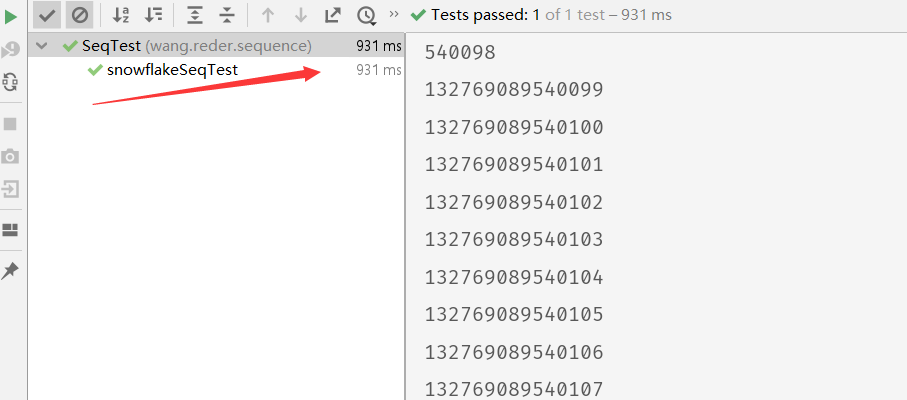
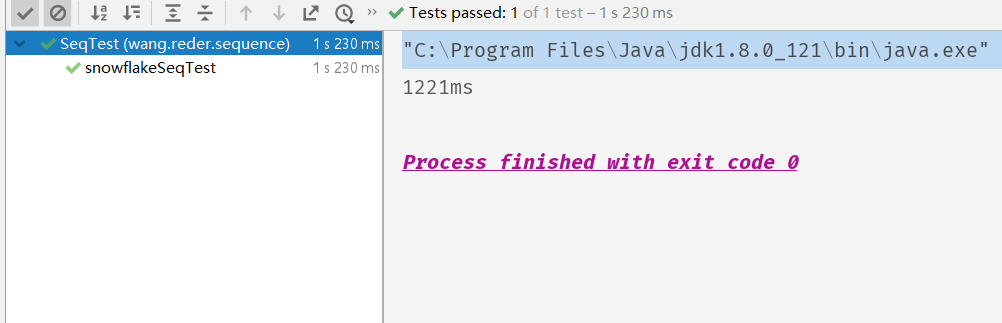
优化代码结构,修改测试图例

diff --git a/src/test/java/wang/reder/lock/LockTest.java b/src/test/java/wang/reder/lock/LockTest.java
@@ -2,7 +2,7 @@ package wang.reder.lock;
 
 import org.junit.Test;
 import wang.reder.distributor.Distributor;
-import wang.reder.distributor.lock.IDtorLock;
+import wang.reder.distributor.lock.ILock;
 import java.util.concurrent.CountDownLatch;
 
 /**
@@ -15,22 +15,51 @@ public class LockTest {
     @Test
     public void redisLockTest() throws Exception {
         // 获得实例
-        Distributor start = Distributor.getInstance();
+        Distributor distributor = Distributor.getInstance();
         // 连接配置
-        start.initJedisConfig("xxx", 6379, "");
+        distributor.initJedisConfig("xxx", 6379, "");
 
         CountDownLatch downLatch = new CountDownLatch(20);
         // 获得锁
-        IDtorLock lock = Distributor.newRedisLock("myLock");
-
-        IDtorLock lock1 = Distributor.newRedisReentrantLock("mylock");
+        ILock lock = Distributor.newRedisLock("myLock");
 
         for (int i = 0; i < 20; i++) {
             new Thread(() -> {
                 for (int j = 0; j < 10; j++) {
                     // 尝试加锁
                     String lockId = lock.lock();
-                    if (null != lockId) {
+                    if (lockId != null) {
+                        // System.out.println("lockId:" + lockId);
+                        lock.unLock(lockId);
+                    }
+                }
+                downLatch.countDown();
+
+            }).start();
+        }
+        downLatch.await();
+
+        distributor.destory();
+    }
+
+
+    @Test
+    public void redisReentrantLockTest() throws Exception {
+        // 获得实例
+        Distributor distributor = Distributor.getInstance();
+        // 连接配置
+        distributor.initJedisConfig("xxx", 6379, "");
+
+        CountDownLatch downLatch = new CountDownLatch(20);
+        // 获得锁
+        ILock lock = Distributor.newRedisReentrantLock("myLock");
+
+        for (int i = 0; i < 20; i++) {
+            new Thread(() -> {
+                for (int j = 0; j < 10; j++) {
+                    // 尝试加锁
+                    String lockId = lock.lock();
+                    if (lockId != null) {
                         System.out.println("lockId:" + lockId);
                         lock.unLock(lockId);
                     }
@@ -41,38 +70,7 @@ public class LockTest {
         }
         downLatch.await();
 
-        start.destory();
-    }
-
-
-    @Test
-    public void redisReentrantLockTest() throws Exception {
-        // 获得实例
-        Distributor start = Distributor.getInstance();
-        // 连接配置
-        start.initJedisConfig("192.168.75.132", 6379, "");
-
-        CountDownLatch downLatch = new CountDownLatch(20);
-        // 获得锁
-        IDtorLock lock = Distributor.newRedisReentrantLock("myLock");
-
-        for (int i = 0; i < 20; i++) {
-            new Thread(() -> {
-                for (int j = 0; j < 10; j++) {
-                    // 尝试加锁
-                    String kId = lock.lock();
-                    if (null != kId) {
-                        System.out.println("lockId:" + kId);
-                        lock.unLock(kId);
-                    }
-                }
-                downLatch.countDown();
-
-            }).start();
-        }
-        downLatch.await();
-
-        start.destory();
+        distributor.destory();
     }
 
 }

diff --git a/src/main/java/wang/reder/distributor/Distributor.java b/src/main/java/wang/reder/distributor/Distributor.java
@@ -7,12 +7,13 @@ import wang.reder.distributor.cache.Impl.RedisClient;
 import wang.reder.distributor.interfaces.IJedisOperator;
 import wang.reder.distributor.limit.ILimit;
 import wang.reder.distributor.limit.impl.RedisLimit;
-import wang.reder.distributor.lock.IDtorLock;
+import wang.reder.distributor.lock.ILock;
 import wang.reder.distributor.lock.redis.RedisLock;
 import wang.reder.distributor.lock.redis.RedisReentrantLock;
 import wang.reder.distributor.sequence.ISequence;
 import wang.reder.distributor.sequence.impl.RedisSequence;
 import wang.reder.distributor.sequence.impl.SnowflakeSequence;
+import wang.reder.distributor.utils.redis.JedisOperatorInit;
 
 /**
  * <p>门面模式，调度系统功能<p/>
@@ -29,8 +30,8 @@ public class Distributor {
     // jedis操作类，用于Jedis操作
     private IJedisOperator jedisOperator;
 
-    // Jedis初始化类
-    private JedisInit jedisInit = new JedisInit();
+    // JedisOperator初始化类
+    private JedisOperatorInit jedisInit = new JedisOperatorInit();
 
     // 返回单例
     public static Distributor getInstance() {
@@ -92,22 +93,22 @@ public class Distributor {
     // ----> RedisLock
 
     // 获取分布式锁，传入锁名，默认锁过期时间10s
-    public static IDtorLock newRedisLock(String lockName) {
+    public static ILock newRedisLock(String lockName) {
         return new RedisLock(lockName);
     }
 
     // 获取分布式锁，传入锁名，锁的过期时间
-    public static IDtorLock newRedisLock(String lockName, int lockTimeout) {
+    public static ILock newRedisLock(String lockName, int lockTimeout) {
         return new RedisLock(lockName, lockTimeout);
     }
 
     // 获取分布式锁，传入锁名，默认锁过期时间10s
-    public static IDtorLock newRedisReentrantLock(String lockName) {
+    public static ILock newRedisReentrantLock(String lockName) {
         return new RedisReentrantLock(lockName);
     }
 
     // 获取分布式锁，传入锁名，锁的过期时间
-    public static IDtorLock newRedisReentrantLock(String lockName, int lockTimeout) {
+    public static ILock newRedisReentrantLock(String lockName, int lockTimeout) {
         return new RedisReentrantLock(lockName, lockTimeout);
     }
 

diff --git a/src/main/java/wang/reder/distributor/lock/redis/RedisLock.java b/src/main/java/wang/reder/distributor/lock/redis/RedisLock.java
@@ -1,7 +1,7 @@
 package wang.reder.distributor.lock.redis;
 
 import redis.clients.jedis.Jedis;
-import wang.reder.distributor.lock.IDtorLock;
+import wang.reder.distributor.lock.ILock;
 import wang.reder.distributor.utils.IdUtils;
 import wang.reder.distributor.utils.redis.AbstractJedis;
 
@@ -16,7 +16,7 @@ import java.util.concurrent.locks.LockSupport;
  * email: 1318944013@qq.com
  * date: 2019/5/1 11:03
  */
-public class RedisLock extends AbstractJedis implements IDtorLock {
+public class RedisLock extends AbstractJedis implements ILock {
 
     // Redis命令常用字符串
     private static final String LOCK_SUCCESS = "OK";
@@ -96,8 +96,8 @@ public class RedisLock extends AbstractJedis implements IDtorLock {
             // 加锁成功返回value值，用于解锁
             return LOCK_SUCCESS.equals(result) ? lockId : null;
         } finally {
-             //关闭连接
-             jedis.close();
+            //关闭连接
+            jedis.close();
         }
     }
 
@@ -116,7 +116,9 @@ public class RedisLock extends AbstractJedis implements IDtorLock {
                     Collections.singletonList(getKey()), Collections.singletonList(lockId));
         } finally {
             // 关闭资源
-            jedis.close();
+            if (jedis != null) {
+                jedis.close();
+            }
         }
     }
 

diff --git a/src/test/java/wang/reder/sequence/SeqTest.java b/src/test/java/wang/reder/sequence/SeqTest.java
@@ -17,10 +17,9 @@ public class SeqTest {
     public void snowflakeSeqTest() {
         // 获得雪花序列生成器
         ISequence sequence = Distributor.newSnowflakeSeq(21, 21);
-        System.out.println(System.currentTimeMillis());
         long startTime = System.nanoTime();
-        // 生成五万个ID
-        for (int i = 0; i < 1000000; i++) {
+        // 生成五十万个ID
+        for (int i = 0; i < 500000; i++) {
             long id = sequence.nextId();
             // System.out.println(id);
         }
@@ -31,13 +30,12 @@ public class SeqTest {
     public void redisSeqTest() throws InterruptedException {
         Distributor distributor = Distributor.getInstance();
         // 连接配置
-        distributor.initJedisConfig("xxx", 6379, "");
+        distributor.initJedisConfig("192.168.75.133", 6379, "");
 
-        ISequence sequence = Distributor.newRedisSeq("seq", 50000, 1);
+        ISequence sequence = Distributor.newRedisSeq("seq", 5000, 1);
 
-        System.out.println(System.currentTimeMillis());
         long startTime = System.nanoTime();
-        for (int i = 0; i < 5000000; i++) {
+        for (int i = 0; i < 500000; i++) {
             long id = sequence.nextId();
             // System.out.println(id);
         }

diff --git a/src/main/java/wang/reder/distributor/sequence/impl/RedisSequence.java b/src/main/java/wang/reder/distributor/sequence/impl/RedisSequence.java
@@ -39,10 +39,10 @@ public class RedisSequence extends AbstractJedis implements ISequence {
     // 构造函数
     public RedisSequence(String key, int step, long stepStart) {
         // 如果输入负数，则使用默认设置
-        if(step <= 0) {
+        if (step <= 0) {
             step = DEFAULT_UNIT_STEP;
         }
-        if(stepStart < 0) {
+        if (stepStart < 0) {
             stepStart = DEFAULT_UNIT_START;
         }
         // 设置Key
@@ -79,7 +79,7 @@ public class RedisSequence extends AbstractJedis implements ISequence {
             lock.lock();
             try {
                 // 循环获取，直到成功
-                while (true){
+                while (true) {
                     // 重新分配单元
                     if (sequenceUnit.isEnd()) {
                         sequenceUnit = nextUnit(getKey());
@@ -121,8 +121,9 @@ public class RedisSequence extends AbstractJedis implements ISequence {
             Long begin = end - step + 1;
             return new SequenceUnit(begin, end);
         } finally {
-            if(jedis != null)
-            jedis.close();
+            if (jedis != null) {
+                jedis.close();
+            }
         }
     }
 

diff --git a/src/main/java/wang/reder/distributor/lock/redis/RedisReentrantLock.java b/src/main/java/wang/reder/distributor/lock/redis/RedisReentrantLock.java
@@ -1,7 +1,7 @@
 package wang.reder.distributor.lock.redis;
 
 
-import wang.reder.distributor.lock.IDtorLock;
+import wang.reder.distributor.lock.ILock;
 import wang.reder.distributor.utils.redis.AbstractJedis;
 import java.util.concurrent.ConcurrentHashMap;
 import java.util.concurrent.TimeUnit;
@@ -14,7 +14,7 @@ import java.util.concurrent.atomic.AtomicInteger;
  * email: 1318944013@qq.com
  * date: 2019/5/1 19:00
  */
-public class RedisReentrantLock extends AbstractJedis implements IDtorLock {
+public class RedisReentrantLock extends AbstractJedis implements ILock {
 
     // 存储每个线程获取锁的信息
     private final ConcurrentHashMap<Thread, LockData> threadData = new ConcurrentHashMap<>();

diff --git a/src/main/java/wang/reder/distributor/utils/redis/JedisOperatorInit.java b/src/main/java/wang/reder/distributor/utils/redis/JedisOperatorInit.java
@@ -1,4 +1,4 @@
-package wang.reder.distributor;
+package wang.reder.distributor.utils.redis;
 
 import redis.clients.jedis.JedisPool;
 import redis.clients.jedis.JedisPoolConfig;
@@ -13,7 +13,7 @@ import wang.reder.distributor.utils.redis.JedisSimpleOperator;
  * email: 1318944013@qq.com
  * date: 2019/5/6 11:51
  */
-public class JedisInit {
+public class JedisOperatorInit {
 
 
     // 情况1：带连接池配置的初始化

diff --git a/src/main/java/wang/reder/distributor/lock/ILock.java b/src/main/java/wang/reder/distributor/lock/ILock.java
@@ -10,7 +10,7 @@ import java.util.concurrent.TimeUnit;
  * email: 1318944013@qq.com
  * date: 2019/4/30 19:57
  */
-public interface IDtorLock {
+public interface ILock {
 
     /**
      * 获取锁直到成功
